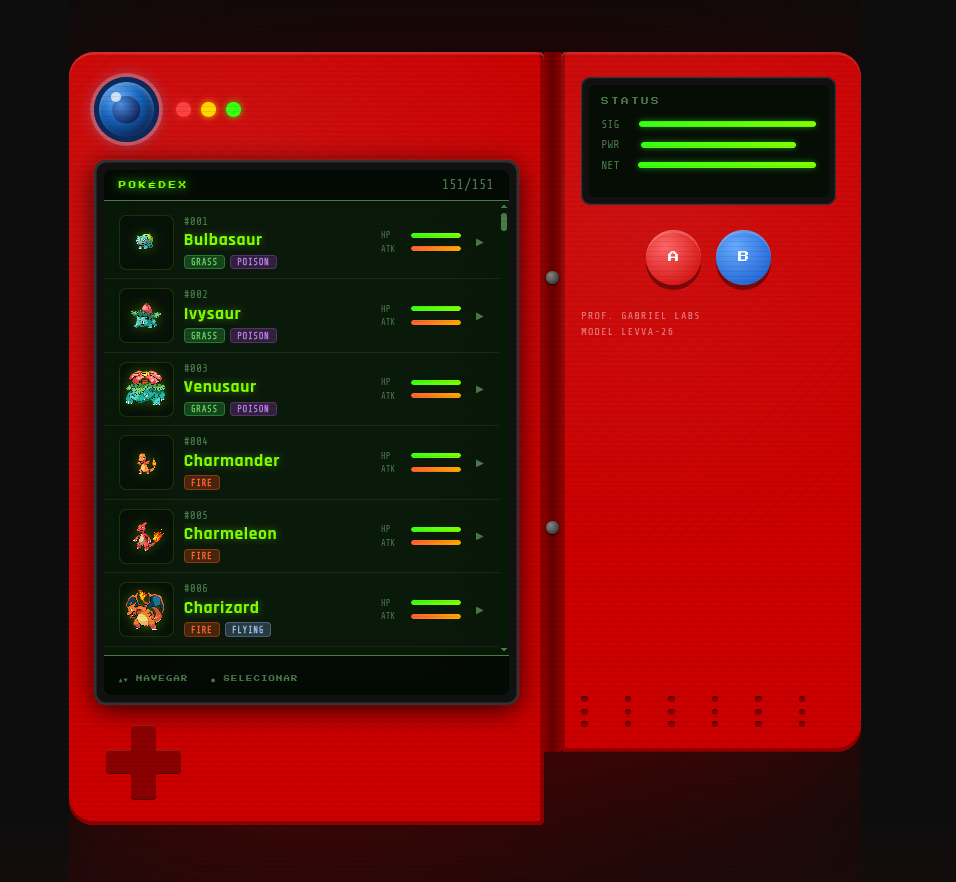
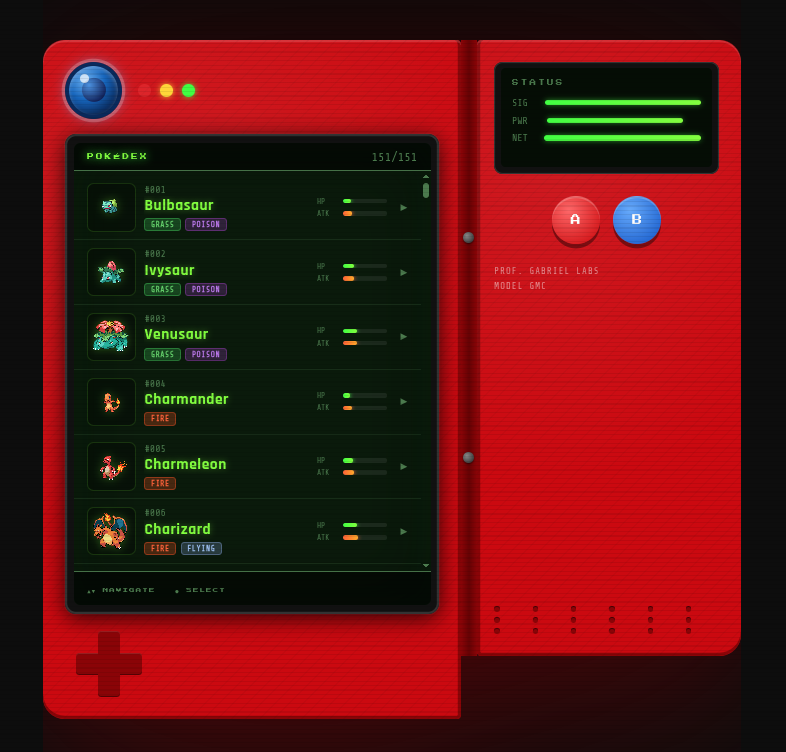
feat(docker): Create and integrate the docker compose in the project
- Update README.md file, add docker instructions
- Update requirements.txt
- Update .env.example
- Create .dockerignore file
- Create Dockerfile
- Create docker-compose.yml file
- Create a entrypoint.sh file, to automatically runs manage.py migrate command

diff --git a/home/templates/pokedex.html b/home/templates/pokedex.html
@@ -144,7 +144,7 @@
       <!-- Decorative side text -->
       <div class="side-text">
         <span>PROF. GABRIEL LABS</span>
-        <span>MODEL LEVVA-26</span>
+        <span>MODEL GMC</span>
       </div>
 
       <!-- Speaker grill -->
